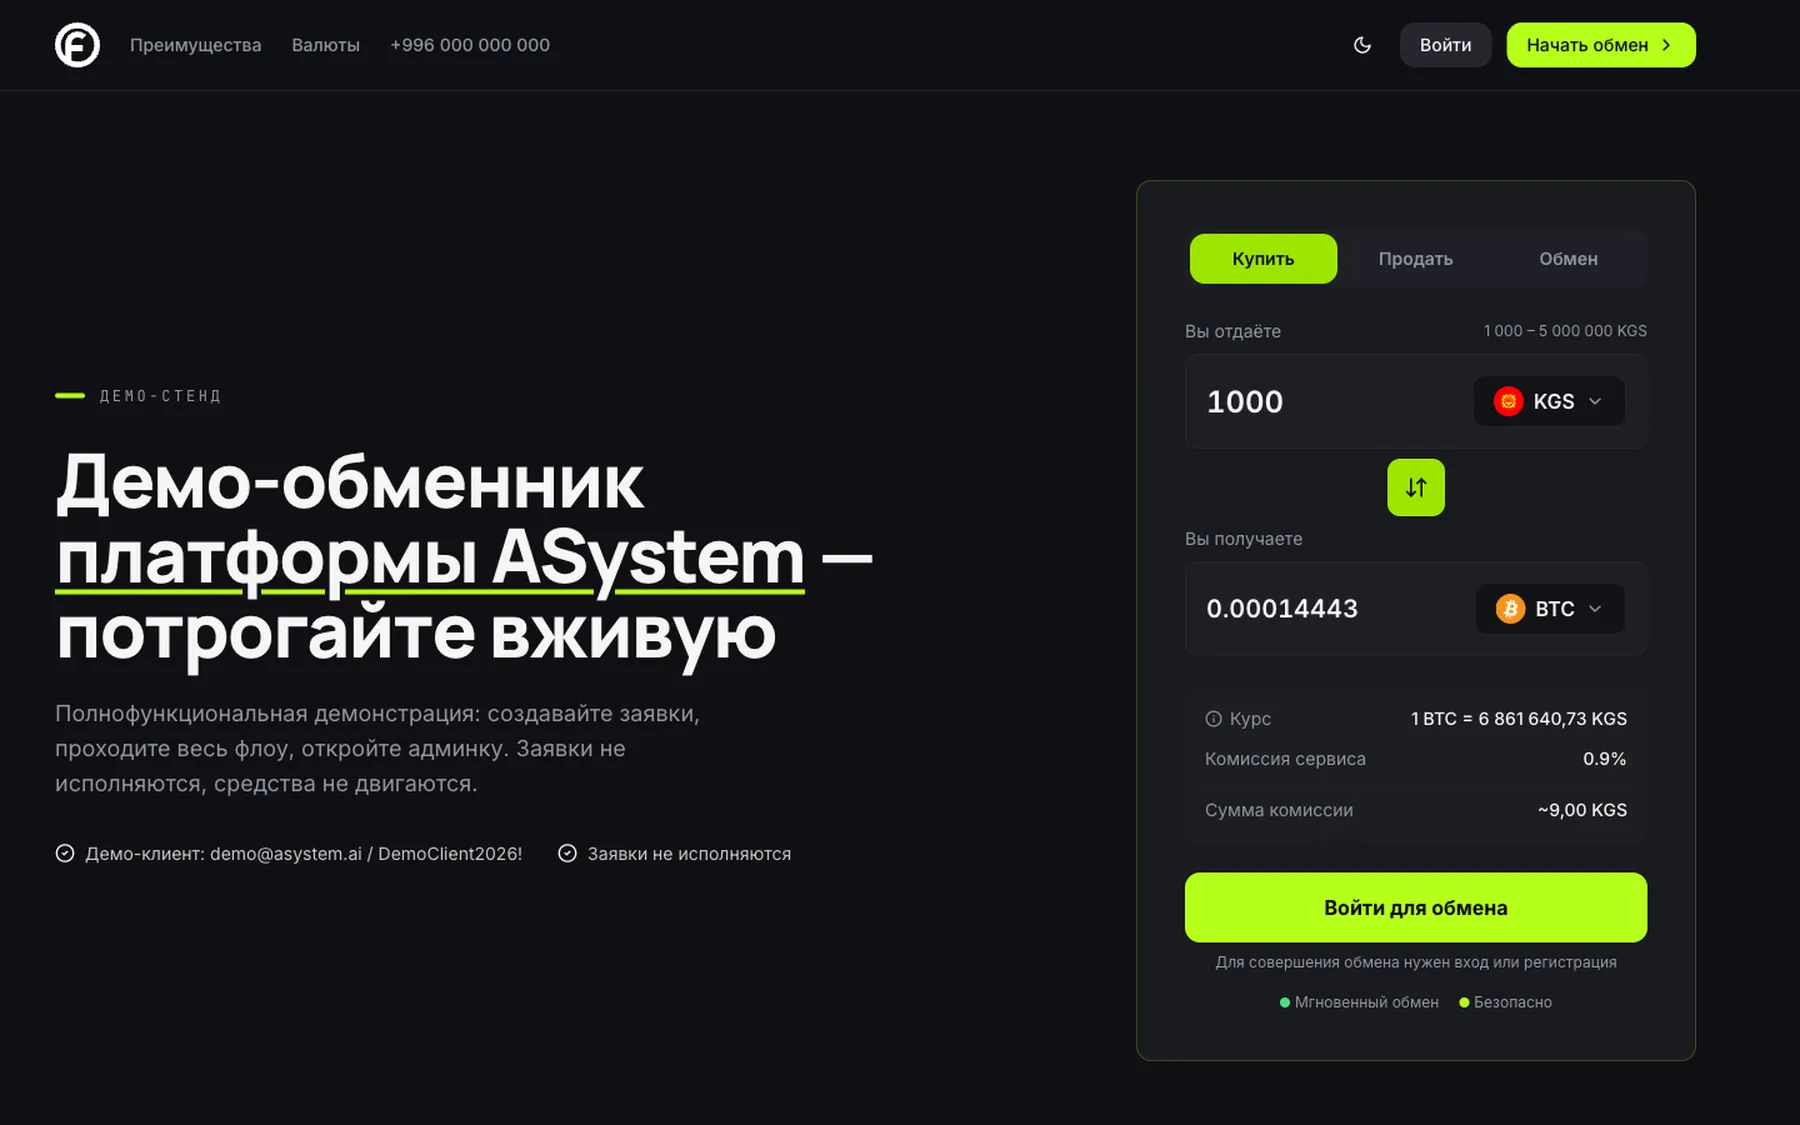
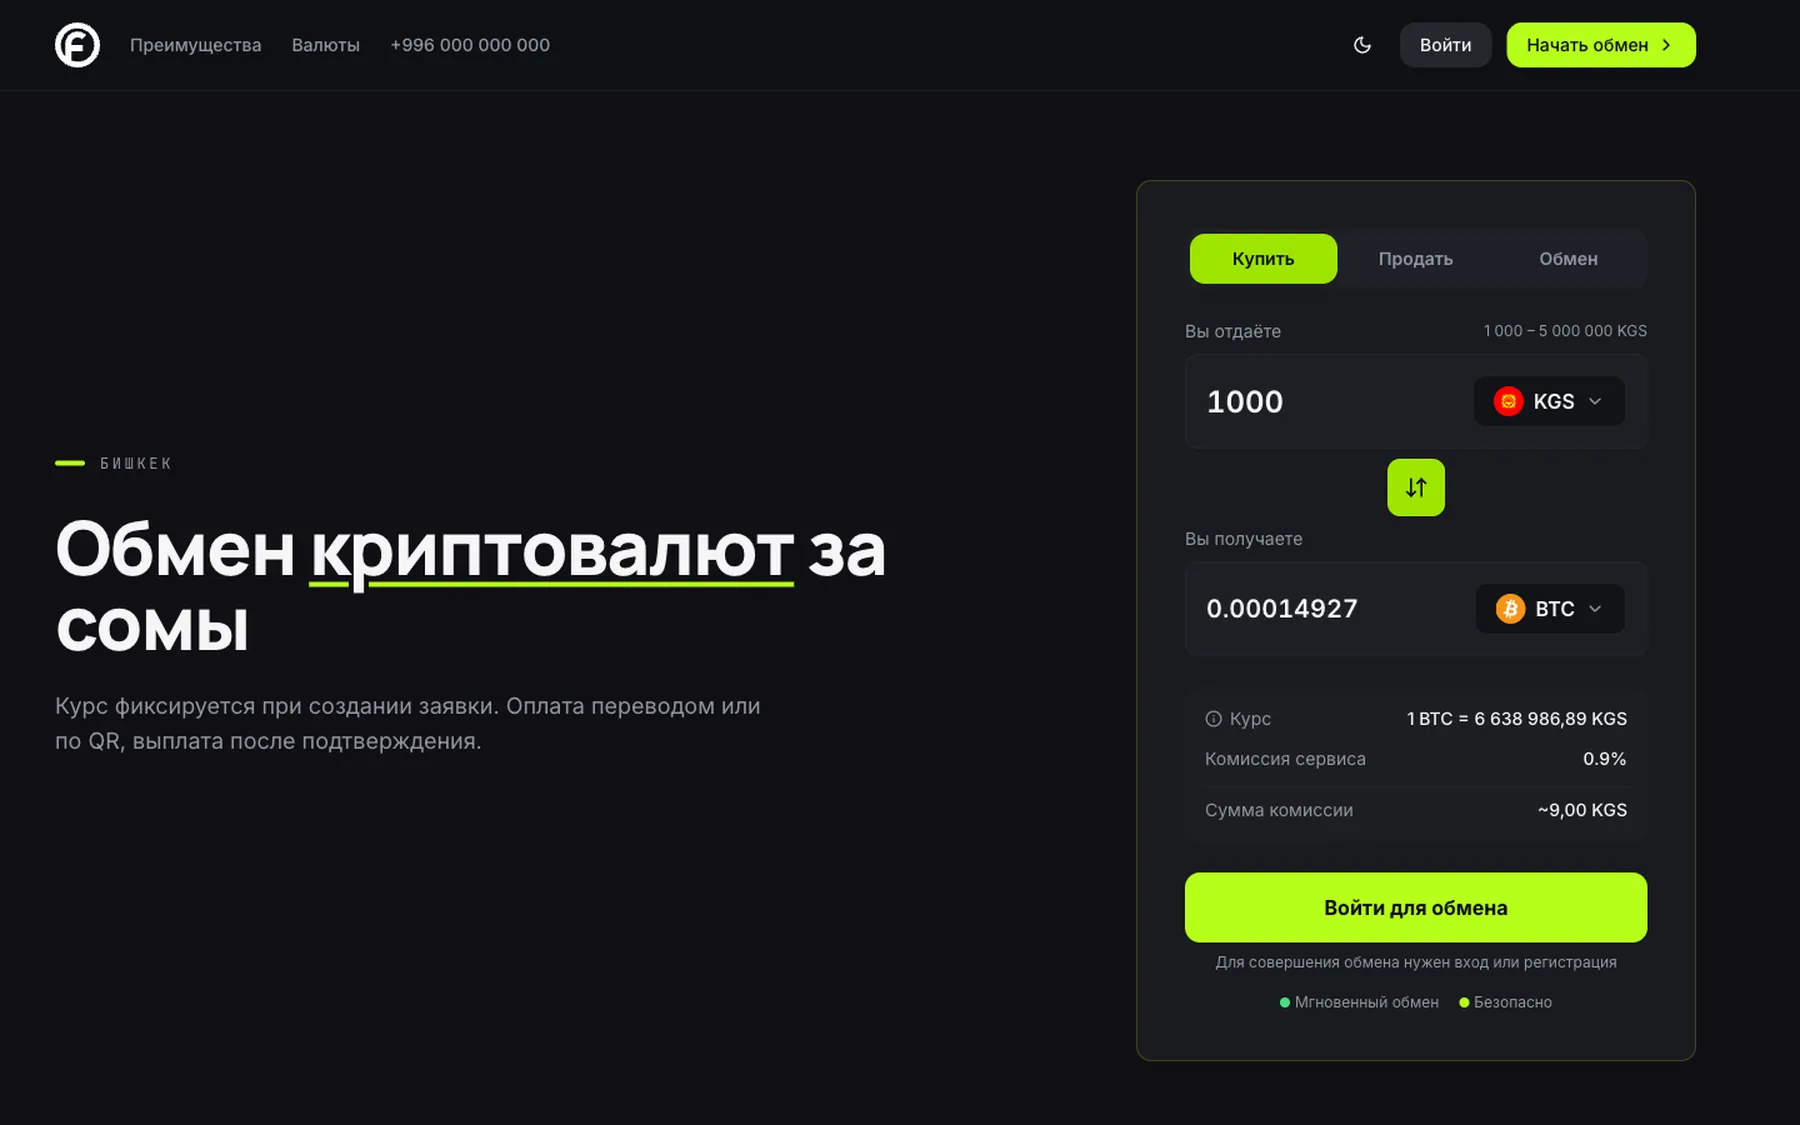
fix(landing): чистые снимки витрины и кабинета, плотнее отступы, og-картинка, лёгкие гравюры
Витрина и кабинет пересняты без демо-плашек и демо-почт; отступы секций py-14/20;
карточки автообмена одной высоты; рупор дальше от ссылки; og:image = снимок витрины;
гравюры 640px (вес вчетверо меньше).

diff --git a/src/components/Automation.tsx b/src/components/Automation.tsx
@@ -6,7 +6,7 @@ import { useContent } from "@/i18n";
 const Automation = () => {
   const { AUTOMATION } = useContent();
   return (
-    <section id="automation" className="wrap relative py-20 sm:py-24">
+    <section id="automation" className="wrap relative py-14 sm:py-20">
       <Illus bg name="gear" size={500} className="right-[-70px] top-[-20px] hidden lg:block" />
       <Reveal className="relative z-[1] max-w-[640px]">
         <p className="text-[13px] font-semibold uppercase tracking-[0.12em] text-[hsl(var(--accent-ink))]">{AUTOMATION.eyebrow}</p>
@@ -15,7 +15,7 @@ const Automation = () => {
       </Reveal>
       <Reveal className="relative z-[1] mt-10 grid grid-cols-1 gap-4 md:grid-cols-2">
         {AUTOMATION.flows.map((f) => (
-          <div key={f.key} className="panel p-6 sm:p-7">
+          <div key={f.key} className="panel h-full p-6 sm:p-7">
             <h3 className="t-h3">{f.title}</h3>
             <ol className="mt-5 flex flex-col gap-3">
               {f.steps.map((s, j) => (

diff --git a/index.html b/index.html
@@ -10,7 +10,7 @@
     <meta property="og:type" content="website" />
     <meta property="og:title" content="ASystem Core — инфраструктура для лицензированного крипто-бизнеса" />
     <meta property="og:description" content="Готовый обменник под вашим брендом: проверка клиентов, комплаенс под ГСФР, отчёты в Финнадзор, приём оплаты через Finik. Сервер в Кыргызстане." />
-    <meta property="og:image" content="/shots/orders-dark.jpg" />
+    <meta property="og:image" content="/shots/og.jpg" />
     <meta name="twitter:card" content="summary_large_image" />
     <link rel="preconnect" href="https://fonts.googleapis.com" />
     <link rel="preconnect" href="https://fonts.gstatic.com" crossorigin />

diff --git a/src/components/Cta.tsx b/src/components/Cta.tsx
@@ -7,9 +7,9 @@ import Illus from "@/components/Illus";
 const Cta = () => {
   const { CTA, DEMO_URL } = useContent();
   return (
-    <section id="demo" className="wrap py-20 sm:py-24">
+    <section id="demo" className="wrap py-14 sm:py-20">
       <Reveal className="panel relative grid grid-cols-1 gap-10 overflow-hidden p-7 sm:p-10 lg:grid-cols-2 lg:gap-16 lg:p-14">
-        <Illus bg name="megaphone" size={440} className="bottom-[-90px] left-[-30px] hidden lg:block" />
+        <Illus bg name="megaphone" size={440} className="bottom-[-150px] left-[-90px] hidden lg:block" />
         <div className="relative z-[1]">
           <h2 className="t-h2 max-w-[16ch]">{CTA.title}</h2>
           <p className="t-lead muted mt-5 max-w-[40ch]">{CTA.sentence}</p>

diff --git a/src/components/Who.tsx b/src/components/Who.tsx
@@ -6,7 +6,7 @@ import { useContent } from "@/i18n";
 const Who = () => {
   const { WHO } = useContent();
   return (
-    <section id="who" className="wrap relative py-20 sm:py-24">
+    <section id="who" className="wrap relative py-14 sm:py-20">
       <Illus bg name="shield" size={440} className="right-[-90px] top-[-80px] hidden lg:block" />
       <Reveal className="relative z-[1]"><h2 className="t-h2">{WHO.title}</h2></Reveal>
       <Reveal as="ul" className="relative z-[1] mt-8 flex flex-col divide-y divide-[hsl(var(--line)/0.08)] border-t border-[hsl(var(--line)/0.08)]">

diff --git a/src/components/Proof.tsx b/src/components/Proof.tsx
@@ -5,7 +5,7 @@ import { useContent } from "@/i18n";
 const Proof = () => {
   const { PROOF } = useContent();
   return (
-    <section className="wrap py-12 sm:py-16" aria-label={PROOF.lead}>
+    <section className="wrap py-8 sm:py-12" aria-label={PROOF.lead}>
       <Reveal className="flex flex-wrap items-center justify-center gap-x-8 gap-y-3 sm:gap-x-10">
         <p className="t-small muted w-full text-center sm:w-auto">{PROOF.lead}</p>
         {PROOF.names.map((n) => (

diff --git a/src/components/Law.tsx b/src/components/Law.tsx
@@ -14,7 +14,7 @@ const TONE: Record<string, string> = {
 const Law = () => {
   const { LAW } = useContent();
   return (
-    <section id="law" className="wrap relative py-20 sm:py-24">
+    <section id="law" className="wrap relative py-14 sm:py-20">
       <Illus bg name="stamp" size={520} className="right-[-60px] top-[-10px] hidden lg:block" />
       <Reveal className="relative z-[1] max-w-[640px]">
         <h2 className="t-h2">{LAW.title}</h2>

diff --git a/src/components/ProductTour.tsx b/src/components/ProductTour.tsx
@@ -27,7 +27,7 @@ const ProductTour = () => {
   }, [i, hold, reduced, run, items.length]);
 
   return (
-    <section id="features" className="wrap py-20 sm:py-24">
+    <section id="features" className="wrap py-14 sm:py-20">
       <Reveal className="max-w-[640px]">
         <p className="text-[13px] font-semibold uppercase tracking-[0.12em] text-[hsl(var(--accent-ink))]">{TOUR.eyebrow}</p>
         <h2 className="t-h2 mt-3">{TOUR.title}</h2>

diff --git a/src/components/Tariffs.tsx b/src/components/Tariffs.tsx
@@ -49,8 +49,8 @@ const Tariffs = () => {
   };
 
   return (
-    <section id="pricing" className="wrap py-20 sm:py-24">
-      <Reveal className="max-w-[640px]">
+    <section id="pricing" className="wrap py-14 sm:py-20">
+      <Reveal className="max-w-[760px]">
         <h2 className="t-h2">{PRICING.title}</h2>
         <p className="t-lead muted mt-4">{PRICING.lead(prepay)}</p>
       </Reveal>

diff --git a/src/components/Faq.tsx b/src/components/Faq.tsx
@@ -12,7 +12,7 @@ const Faq = () => {
   const reduced = !!useReducedMotion();
   const [open, setOpen] = useState<number | null>(0);
   return (
-    <section id="faq" className="wrap py-20 sm:py-24">
+    <section id="faq" className="wrap py-14 sm:py-20">
       <div>
         <Reveal><h2 className="t-h2">{FAQ.title}</h2></Reveal>
         <Reveal className="panel mt-8 divide-y divide-line">

diff --git a/src/components/HowItWorks.tsx b/src/components/HowItWorks.tsx
@@ -5,7 +5,7 @@ import { useContent } from "@/i18n";
 const HowItWorks = () => {
   const { STEPS } = useContent();
   return (
-    <section id="how" className="wrap py-20 sm:py-24">
+    <section id="how" className="wrap py-14 sm:py-20">
       <Reveal className="max-w-[640px]">
         <h2 className="t-h2">{STEPS.title}</h2>
         <p className="t-lead muted mt-4">{STEPS.note}</p>
